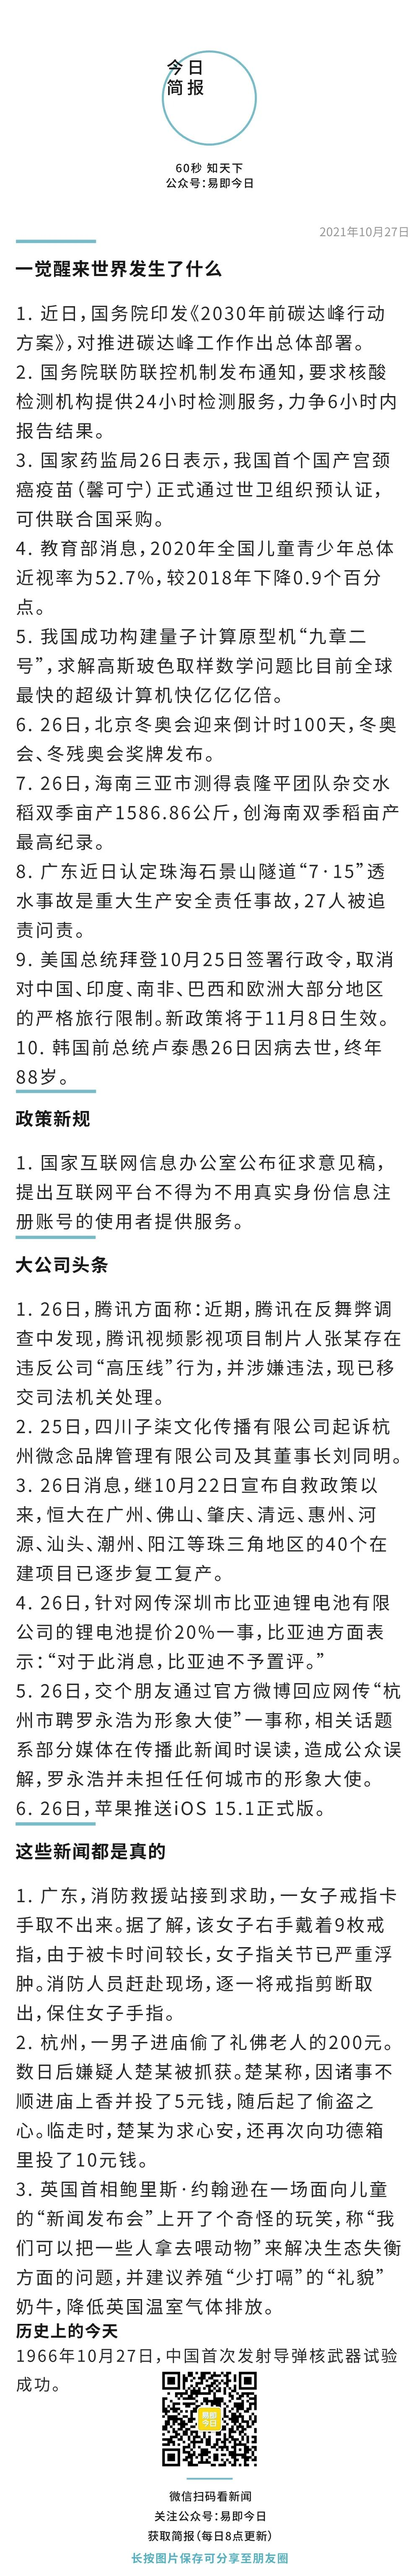
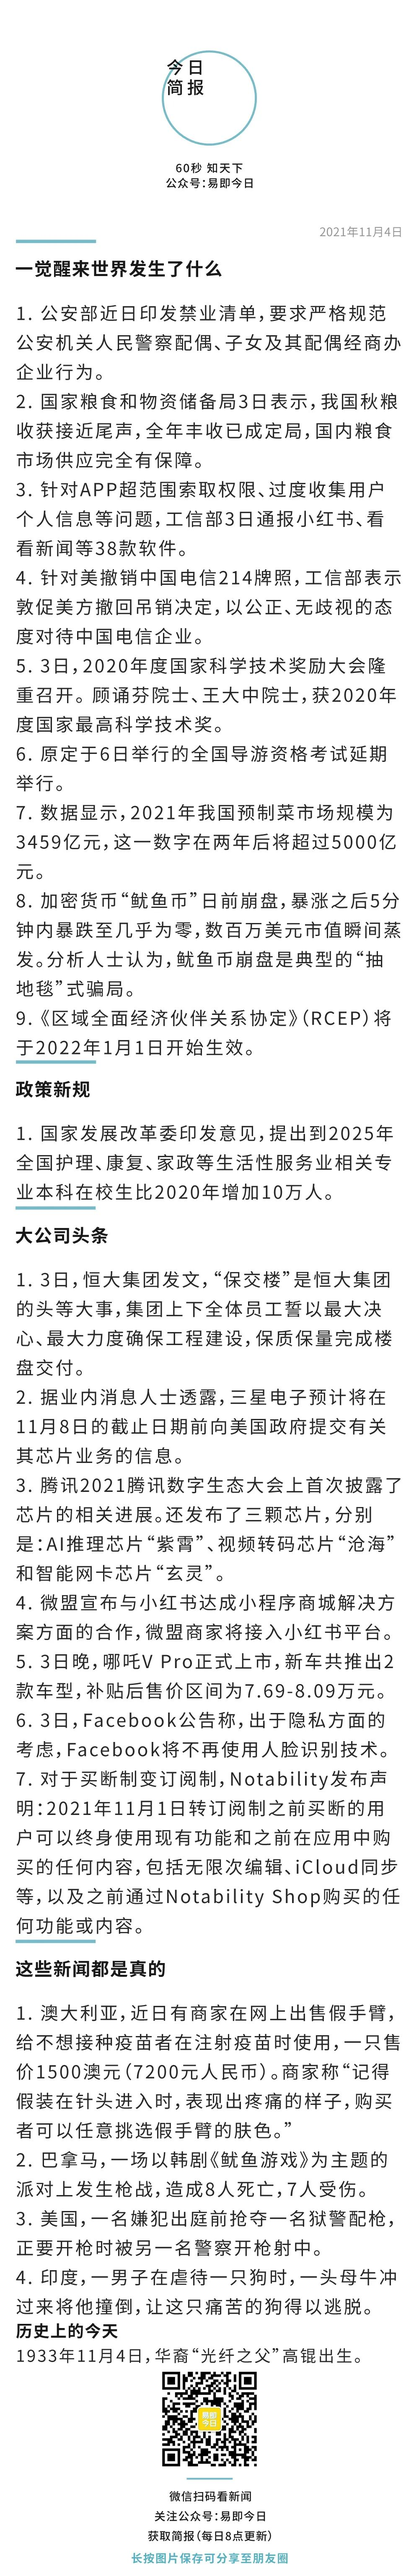
修复每日简报，添加p站搜索

Changed region(s): [[0.031, 0.0933, 0.961, 0.9332]]

diff --git a/code/pronhub.py b/code/pronhub.py
@@ -1,0 +1,84 @@
+import asyncio
+import json
+import numpy as np
+import aiohttp
+import re
+from graia.application.friend import Friend
+from fake_useragent.settings import HTTP_RETRIES
+from graia.application import GraiaMiraiApplication
+from graia.application.group import Group, Member
+from graia.application.message.chain import MessageChain
+from graia.application.message.elements.internal import At, Image, Plain
+from graia.application.message.parser.kanata import Kanata
+from graia.application.message.parser.signature import (FullMatch,
+                                                        OptionalParam,
+                                                        RequireParam)
+import random
+import time
+import datetime
+import requests
+from fake_useragent import UserAgent
+from bs4 import BeautifulSoup as BS
+import httpx
+from lxml import etree
+from startup import bcc
+
+async def testVpn(key):
+    url = f'https://cn.pornhub.com/video/search?search={key}'
+    headers = {
+        "User-Agent": UserAgent().random,
+        'content-type': 'text/html; charset=UTF-8'
+    }
+    proxys = {"http": 'socks5://127.0.0.1:10808', "https": 'socks5://127.0.0.1:10808'}
+    resp = requests.get(url=url, headers=headers, proxies=proxys) 
+    resp.encoding = 'UTF-8'
+    demo = etree.HTML(resp.text)
+    nodes = demo.xpath('//ul[@id="videoSearchResult"]//li[@class="pcVideoListItem js-pop videoblock videoBox"]')
+    hrefs = []
+    img_src = []    
+    try:
+        for i in nodes:
+            text = etree.tostring(i, encoding="utf-8", pretty_print=True).decode("utf-8")
+            href = re.search('<a href="(.*?)"', text, re.S).group(1)
+            href = 'https://cn.pornhub.com' + href
+            hrefs.append(href)
+
+            src = re.search('data-thumb_url="(.*?)"', text, re.S).group(1)
+            img_src.append(src)
+
+    except Exception as e:
+        print(e)
+    if len(href) == 0:
+        return 'xs, 没找到', None
+    idx = random.choice(np.arange(len(hrefs)))
+    return hrefs[idx], img_src[idx]
+
+
+@bcc.receiver("GroupMessage", dispatchers=[
+    # 注意是 dispatcher, 不要和 headless_decorator 混起来
+    Kanata([FullMatch("pornhub"), RequireParam(name="saying")])
+])
+async def searchPornhub(
+    message: MessageChain,
+    app: GraiaMiraiApplication,
+    group: Group, member: Member,
+    saying: MessageChain
+):
+    content=saying.asDisplay().strip()
+    reply, _ = await testVpn(content)
+    await app.sendGroupMessage(group, MessageChain.create([
+        At(member.id),Plain(reply)
+    ]))
+
+@bcc.receiver("FriendMessage", dispatchers=[
+    Kanata([FullMatch("pornhub"), RequireParam(name="saying")])
+])
+async def searchPornhubFriend(
+    app: GraiaMiraiApplication, friend: Friend,
+    saying: MessageChain
+):
+    content=saying.asDisplay().strip()
+    reply, img_src = await testVpn(content)
+    await app.sendFriendMessage(friend, MessageChain.create([
+        Plain(reply), Image.fromNetworkAddress(url=img_src)
+    ]))

diff --git a/code/baozhi.py b/code/baozhi.py
@@ -7,7 +7,8 @@ from graia.application import GraiaMiraiApplication
 from graia.application.group import Group, Member
 from graia.application.message.chain import MessageChain
 from graia.application.message.elements.internal import At, Image, Plain
-from graia.scheduler.timers import crontabify
+from graia.scheduler.timers import (crontabify, every_custom_hours,
+                                    every_custom_minutes, every_custom_seconds)
 import random
 import time
 import datetime
@@ -15,7 +16,7 @@ import requests
 from fake_useragent import UserAgent
 from bs4 import BeautifulSoup as BS
 
-from startup import app, bcc, scheduler
+from startup import app, bcc, scheduler, loop
 
 ua = UserAgent().random
 
@@ -35,13 +36,19 @@ def get_new_cookies():
                        allow_redirects=False)
     cookies = rst.cookies.get_dict()
     return cookies
-
+    
 async def news_result(html):
     soup = BS(html, 'html.parser')
     ul = soup.find(class_="news-list")
     for li in ul.find_all('li'):
-        url = li.a['href']
-        return url
+        try:
+            url = li.a['href']
+            div = li.find_all('div')[1]
+            if div.div.a.text == '易即今日':
+                return url
+            print(div.div.a.text)
+        except Exception as e:
+            print(e)
 
 async def url_decode(r): 
     url = 'https://weixin.sogou.com' + r
@@ -111,15 +118,17 @@ async def toBtyes(resp):
     return result
 
 
-@scheduler.schedule(crontabify("00 08 02 * *"))
+@scheduler.schedule(every_custom_minutes(59))
 async def daily_briefing_scheduled():
-    f=open('mydata.json')
-    data=json.load(f)
+    # f=open('./json/mydata.json')
+    # data=json.load(f)
     img_path = await getBriefing()
-    await app.sendGroupMessage(data['group']["1020661362"], MessageChain.create([
-        Image.fromLocalFile(img_path)
-    ]))
-    f.close()
+    # await app.sendGroupMessage(data['group']["1020661362"], MessageChain.create([
+    #     Image.fromLocalFile(img_path)
+    # ]))
+    # f.close()
+
+# loop.run_until_complete(getBriefing())
 
 @bcc.receiver("GroupMessage")
 async def daily_briefing(
@@ -128,7 +137,7 @@ async def daily_briefing(
     group: Group, member: Member,
 ):  
     if ''.join(message.asDisplay().lower().strip().split()) == "今日简报":
-        url = '/root/mcl/code/img/picture.png'
+        url = './img/picture.png'
         print(url)
         await app.sendGroupMessage(group, MessageChain.create([
             Image.fromLocalFile(url)

diff --git a/code/main.py b/code/main.py
@@ -4,10 +4,10 @@ from chat import xiaolan
 from chengyu import chengyu
 from choice import choice
 from compile import compile
-from courses import courses_db, courses_search, courses
+from courses import courses_db, courses_search, courses, selectId
 # from electricity import search_elec, search_elec2, update_scheduled
 from dailyenglish import daily_english
-from baozhi import daily_briefing
+from baozhi import daily_briefing, daily_briefing_scheduled
 from diu import diu
 from fanyi import fanyi
 from fuli import fuli
@@ -20,6 +20,7 @@ from pa import pa
 from setu import setu, setu_db
 from startup import app, loop
 from weather import weather
+from pronhub import searchPornhub, searchPornhubFriend
 
 app.launch_blocking()
 loop.run_forever()

diff --git a/README.md b/README.md
@@ -9,9 +9,11 @@ my qq bot
 
 - <a href="code/baozhi.py">baozhi</a>每日简报
 
+- <a href="code/pronhub.py">pornhub</a>搜索并发送图片(只限私聊)+视频url
+
 - <a href="code/setu.py">setu</a>搜索并发送懂得都懂的图片
 
-- <a href="code/fuli.py">fuli</a>=发送另一个次元懂得都懂的图片
+- <a href="code/fuli.py">fuli</a>发送另一个次元懂得都懂的图片
 
 - <a href="code/image-search.py">搜图</a>搜索图片的详细信息
 
